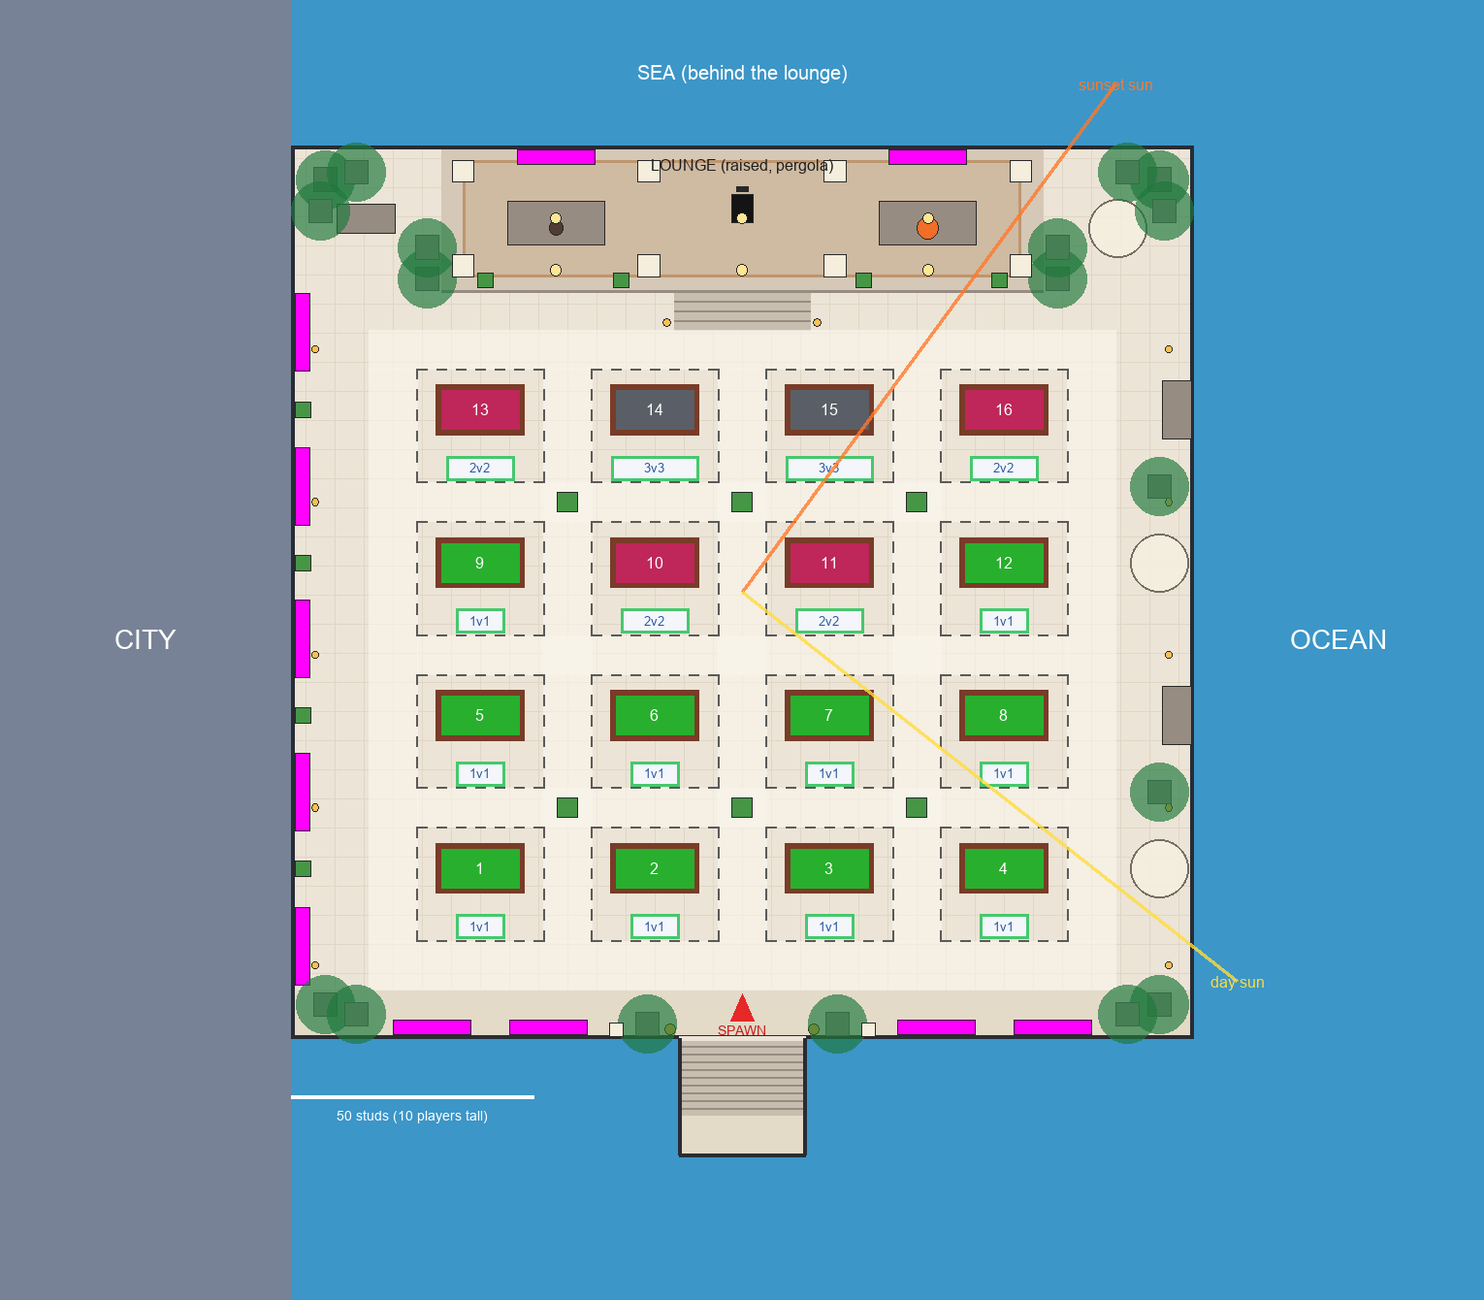
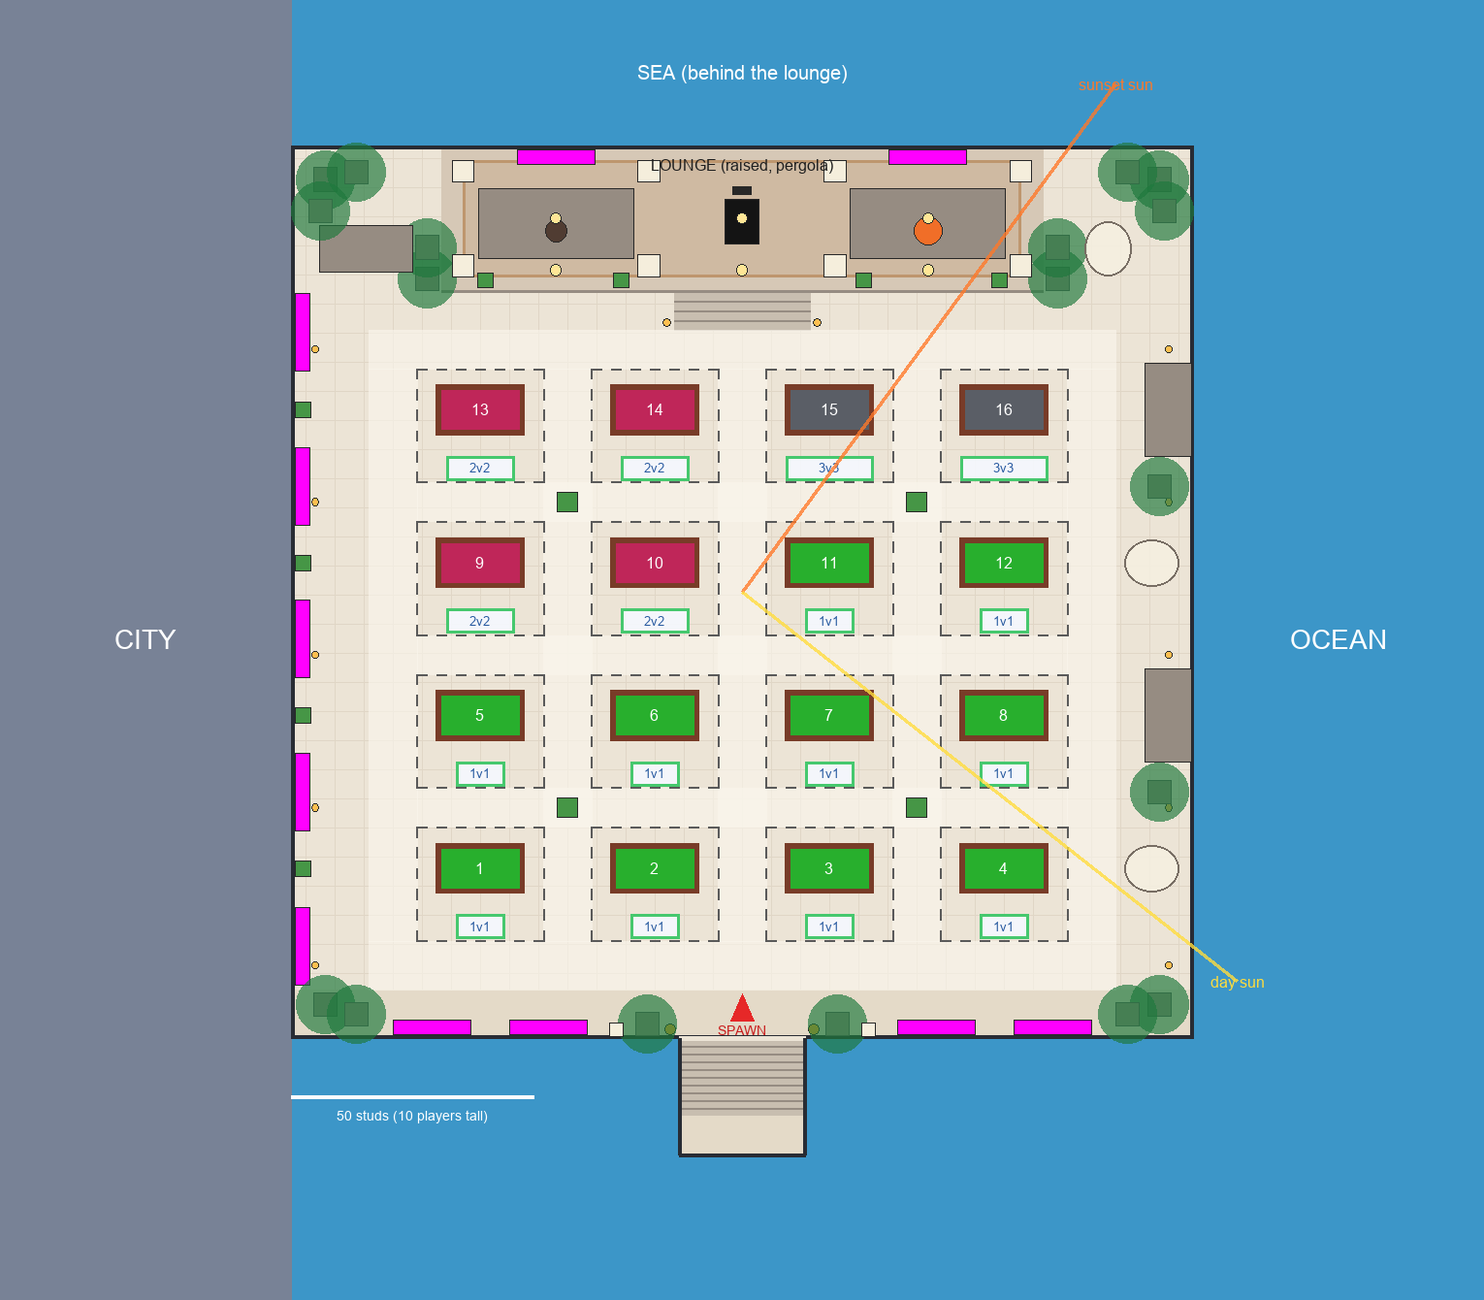
Checkpoint B changes: seating sized for a Roblox character, a clear centre aisle, tables grouped by mode
From the designer at Checkpoint B:
- The seating is placed at 1.6x for a Roblox character: the sofas, the umbrella
  sets and their loungers, the piano and bench and the coffee table. The fire
  pit is at 1.3x, so it still fits inside its U. The gray-box collision scales
  with each prop. An umbrella set's solid footprint is its loungers and pole,
  since the canopy is overhead. The two back-corner sets moved clear of the
  corner palms.
- The lounger's sit spot moved back against its backrest; the model is unchanged.
- The centre aisle from the spawn to the lounge is clear (two planters removed).
- The four 2v2 tables are together in the back-left corner and the two 3v3 in
  the back-right; the third row's right two are 1v1. There are still ten 1v1.

Placed in Studio: 91 props, 60,959 triangles, 171 MeshParts, 32 seats. Play:
every queue pad and seating area has a path from the spawn, 7 of 7 edge pushes
pass, and a character sits on every seat type facing the right way. No
re-import: placements, Config and the seat data only.

diff --git a/assets/map/map_layout.py b/assets/map/map_layout.py
@@ -42,12 +42,13 @@ GAME = {
 
 # Every table plays one mode (team size a side) and wears that mode's regular-lobby look
 # (wood frames; designer, 2026-09-26). Rows front to back, columns city to ocean: the 1v1
-# tables at the front, the 3v3 pair at the back centre, as on the baseplate.
+# tables at the front, the four 2v2 together in the back city corner (2 x 2), the 3v3 pair in
+# the back ocean corner (designer, Checkpoint B).
 MODES = [
     [1, 1, 1, 1],
     [1, 1, 1, 1],
-    [1, 2, 2, 1],
-    [2, 3, 3, 2],
+    [2, 2, 1, 1],
+    [2, 2, 3, 3],
 ]
 LOOK_BY_MODE = {1: 'Green', 2: 'RedWood', 3: 'CharcoalWood'}
 
@@ -102,6 +103,11 @@ P = {
     'globe_scale': 1.5,  # the GlobeLight template (globe 1.5, cord to 3.75 over its centre) scaled so
     'globe_hang': 5.6,  # ...its centre hangs this far under the fascia's underside
     'crossing_planter_scale': 1.3,  # the aisle-crossing fern planters, chunkier as in the art (Stage 3 critic 2)
+    # What a player sits on is sized for a Roblox character, not a real person: the sofas, the
+    # umbrella sets' loungers, the piano and its bench and the coffee table, all scaled up
+    # (designer, Checkpoint B). The fire pit less, so it still fits inside its U.
+    'seating_scale': 1.6,
+    'fire_pit_scale': 1.3,
     'mat_size': (16.0, 0.2, 6.0),  # the entrance mat (the SpawnLocation), between the tall lanterns
 }
 
@@ -123,6 +129,10 @@ PROP_SIZE = {
     'planter_bed': (16.0, 3.0, 6.5),  # a long trough of ferns along a parapet: 3.2 high, ferns above
     'table_glow': (26.0, 18.0, 0.02),  # the table (18.24 x 10.24) and a soft warm pool about 3.5 round it
 }
+
+# Where a prop's solid part is smaller than its size: an umbrella set's canopy is overhead, so
+# only its loungers and pole block walking (width, depth at scale 1, round the prop's centre).
+SOLID_SIZE = {'umbrella_set': (6.0, 7.0)}
 
 # Things that block walking (their footprint is solid). Glow planes and lights do not.
 SOLID = {'fern_planter', 'palm_planter', 'planter_bed', 'lantern', 'lantern_tall', 'umbrella_set', 'side_couch',
@@ -282,6 +292,12 @@ def build():
         item.update(extra)
         props.append(item)
 
+    def sized(kind, k):
+        """A kind's footprint (width, depth, height) at scale k."""
+        return tuple(v * k for v in PROP_SIZE[kind])
+
+    S = P['seating_scale']
+
     def column(x, z, y, height, size, part_of):
         props.append({'kind': 'column', 'X': round(x, 4), 'Y': y, 'Z': round(z, 4), 'yaw': 0.0,
                       'size': [size, height, size], 'part_of': part_of})
@@ -290,11 +306,12 @@ def build():
     for t in tables:
         prop('table_glow', t['X'], t['Z'], t['yaw'], 0.01)
 
-    # Fern planters at the aisle crossings, as in the top-down art: all three between rows 1
-    # and 2 and between rows 3 and 4, none between rows 2 and 3.
+    # Fern planters at the aisle crossings, as in the top-down art: the side aisles' crossings
+    # between rows 1 and 2 and between rows 3 and 4. None between rows 2 and 3, and none in the
+    # centre aisle, the clear walk from the spawn to the lounge (designer, Checkpoint B).
     for k, (x, z) in enumerate(crossings):
-        row, _ = divmod(k, 3)
-        if row != 1:
+        row, col = divmod(k, 3)
+        if row != 1 and col != 1:
             prop('fern_planter', x, z, scale=P['crossing_planter_scale'])
 
     # Side zones: a regular rhythm along each railing. Big items line up with the table rows,
@@ -324,9 +341,10 @@ def build():
     for k, z in enumerate(row_z):
         if k in (0, 2):
             # Loungers face the sea (the set's front, +Z, turned to +X).
-            prop('umbrella_set', rail_x - PROP_SIZE['umbrella_set'][0] / 2 - 1.0, z, 90.0)
+            # The loungers' feet 3 in from the railing; the canopy overhangs the walkway.
+            prop('umbrella_set', rail_x - SOLID_SIZE['umbrella_set'][1] * S / 2 - 3.0, z, 90.0, scale=S)
         else:
-            prop('side_couch', rail_x - PROP_SIZE['side_couch'][1] / 2 - 0.4, z, -90.0)
+            prop('side_couch', rail_x - sized('side_couch', S)[1] / 2 - 0.4, z, -90.0, scale=S)
     inset = P['palm_inset']
     for (a, b), height in zip(((row_z[0], row_z[1]), (row_z[2], row_z[3])), (26.0, 22.0)):
         prop('palm_planter', rail_x - inset, (a + b) / 2, -90.0, height=height)
@@ -357,18 +375,18 @@ def build():
     # line the platform edge; palms at the pergola's ends.
     y = platform_y
     pz0, pz1 = zones['pergola'][1], zones['pergola'][3]
-    piano_d = PROP_SIZE['piano'][1]
-    bench_d = PROP_SIZE['piano_bench'][1]
+    piano_d = sized('piano', S)[1]
+    bench_d = sized('piano_bench', S)[1]
     bench_z = pz0 + P['pergola_column'] + 1.0 + bench_d / 2
-    piano_z = bench_z + bench_d / 2 + 0.6 + piano_d / 2
-    prop('piano_bench', 0.0, bench_z, 0.0, y)
-    prop('piano', 0.0, piano_z, 180.0, y)  # the keyboard (the prop's +Z side) faces the bench
+    piano_z = bench_z + bench_d / 2 + 0.6 * S + piano_d / 2
+    prop('piano_bench', 0.0, bench_z, 0.0, y, scale=S)
+    prop('piano', 0.0, piano_z, 180.0, y, scale=S)  # the keyboard (the prop's +Z side) faces the bench
     group_z = (pz0 + pz1) / 2 + 1.0
     bay_w = 2 * P['pergola_half_width'] / P['pergola_bays']
-    prop('lounge_couch', -bay_w, group_z, 0.0, y)  # in the bays either side of the piano's
-    prop('coffee_table', -bay_w, group_z + 1.0, 0.0, y)
-    prop('lounge_couch', bay_w, group_z, 0.0, y)
-    prop('fire_pit', bay_w, group_z + 1.0, 0.0, y)
+    prop('lounge_couch', -bay_w, group_z, 0.0, y, scale=S)  # in the bays either side of the piano's
+    prop('coffee_table', -bay_w, group_z + 1.0 * S, 0.0, y, scale=S)
+    prop('lounge_couch', bay_w, group_z, 0.0, y, scale=S)
+    prop('fire_pit', bay_w, group_z + 1.0 * S, 0.0, y, scale=P['fire_pit_scale'])
     for side in (-1, 1):
         # A fern trough on the back railing behind each U couch: the lounge-back art's planted
         # edge behind the sofa (Stage 3 critic 2).
@@ -385,8 +403,9 @@ def build():
     # the top-down art, with palms in the far corners.
     corner_x = (lw + rail_x) / 2
     corner_z = (back_edge + lounge_front) / 2
-    prop('side_couch', -corner_x, corner_z - 4.0, 0.0)
-    prop('umbrella_set', corner_x, corner_z - 2.0, 180.0)
+    # In front of the corner palms, clear of them and of the pergola-end palms.
+    prop('side_couch', -corner_x, corner_z + 2.3, 0.0, scale=S)
+    prop('umbrella_set', corner_x - 2.0, corner_z + 2.25, 180.0, scale=S)
     for side in (-1, 1):
         # Three palms in each back corner at three heights.
         prop('palm_planter', side * (rail_x - inset), back_edge + inset, height=32.0)
@@ -458,6 +477,9 @@ def cameras(spawn, zones):
 
 def footprint(p):
     w, _, d = p['size']
+    if p['kind'] in SOLID_SIZE:
+        k = p.get('scale', 1.0)
+        w, d = (v * k for v in SOLID_SIZE[p['kind']])
     yaw = math.radians(p['yaw'])
     c, s = abs(math.cos(yaw)), abs(math.sin(yaw))
     hx = (w * c + d * s) / 2

diff --git a/assets/map/gen_graybox.py b/assets/map/gen_graybox.py
@@ -377,20 +377,22 @@ def building(g, rng, folder, x, z, w, d_, dist, behind):
 def prop(g, p, i):
     kind = p['kind']
     L = (p['X'], p['Y'], p['Z'], p['yaw'])
-    w, h, d = p['size']
+    # A scaled prop (map_layout: the seating, the crossing planters) is its template's parts,
+    # every size and offset times k; w, h, d are the template's own.
+    k = p.get('scale', 1.0)
+    w, h, d = (v / k for v in p['size'])
     F = 'Props'
     name = '%s_%02d' % (kind, i)
 
     def part(size, pos, colour, **kw):
         kw.setdefault('role', 'collide' if kw.get('collide') else 'visual')
-        g.part(F, name, size, pos, colour, local=L, **kw)
+        g.part(F, name, tuple(v * k for v in size), tuple(v * k for v in pos), colour, local=L, **kw)
 
     if kind == 'table_glow':
         part((w, 0.05, d), (0, 0.03, 0), C['glow'], material='Neon', transparency=0.88)
     elif kind == 'fern_planter':
-        k = p.get('scale', 1.0)
-        part((w, 3.0 * k, d), (0, 1.5 * k, 0), C['stone'], collide=True)
-        part((4.4 * k, 4.4 * k, 4.4 * k), (0, 5.0 * k, 0), C['leaf'], shape='Ball')
+        part((w, 3.0, d), (0, 1.5, 0), C['stone'], collide=True)
+        part((4.4, 4.4, 4.4), (0, 5.0, 0), C['leaf'], shape='Ball')
     elif kind == 'palm_planter':
         part((w, 3.2, d), (0, 1.6, 0), C['stone'], collide=True)
         part((1.1, h - 7, 1.1), (0, 3.2 + (h - 7) / 2, 0), C['trunk'])

diff --git a/assets/map/props/lights.py b/assets/map/props/lights.py
@@ -449,7 +449,9 @@ def build_umbrella_set():
     _umbrella_frame(m, R)
     for lx in (-LOUNGER_X, LOUNGER_X):
         _lounger(m, lx)
-    seats = [(-LOUNGER_X, 1.0, 1.0, 0.0), (LOUNGER_X, 1.0, 1.0, 0.0)]
+    # Against the backrest's foot (its hinge at z -0.8), between the armrests: the sit pose is
+    # upright, so a spot further forward left a gap behind the player (Checkpoint B).
+    seats = [(-LOUNGER_X, 1.0, -0.35, 0.0), (LOUNGER_X, 1.0, -0.35, 0.0)]
     return {'Opaque': m, 'seats': seats, 'lights': []}
 
 

diff --git a/assets/map/Spec.md b/assets/map/Spec.md
@@ -17,14 +17,17 @@ Change those scripts, never the numbers here by hand, then update this file.
   an invisible wall.
 - **Table looks follow the table's mode**, with wood frames (the regular lobby): green 1v1,
   raspberry 2v2 (`RedWood`), charcoal 3v3 (`CharcoalWood`). This replaces the brief's "all
-  green". Ten 1v1 tables sit at the front, four 2v2 and two 3v3 toward the back, as on the
-  baseplate.
+  green". Ten 1v1 tables sit at the front. The four 2v2 stand together (2 x 2) in the back
+  city corner and the two 3v3 in the back ocean corner (designer, Checkpoint B).
 - **Queue pads sit in front of each table:** centred on the long side that faces the
   entrance. They are rectangles (the other session's change, 8f66025), sized by mode. The
   grid is computed from the pad size in Config, so it re-spaces itself if that changes.
 - **Prop scale is split.**
   - Spacing and zones follow the table's scale (the art's layout).
-  - Anything a player sits on, climbs or leans on is at player scale.
+  - What a player sits on is sized for a Roblox character, not a real person (designer,
+    Checkpoint B). The sofas, the umbrella sets with their loungers, the piano and bench and
+    the coffee table are built at player scale and placed at 1.6x; the fire pit at 1.3x.
+  - Anything a player climbs or leans on (steps, railing) is at player scale.
   - Big decor (planters, palms, umbrellas, the pergola) is about 1.4x player scale, so it
     holds its own beside the 18-stud tables.
 - **No snack counter for now** (designer, Checkpoint A): the **grand piano** is the
@@ -209,7 +212,7 @@ top-down, and one big item per table row along each railing.
 
 | Prop | Count | Where |
 |---|---:|---|
-| Fern planter | 14 | 6 at the aisle crossings (none in the middle row gap), scaled 1.3 to the art's chunkier boxes; 4 on the city railing, one per row; 4 on the lounge edge, between the pergola's front columns |
+| Fern planter | 12 | 4 at the side aisles' crossings (none in the middle row gap, and the centre aisle from the spawn to the lounge is clear; designer, Checkpoint B), scaled 1.3 to the art's chunkier boxes; 4 on the city railing, one per row; 4 on the lounge edge, between the pergola's front columns |
 | Fern trough (a long low planter) | 11 | 5 along the city railing between the big planters, so the edge reads as one green line (the top-down art); 4 along the front parapet; 2 on the back railing behind the U sectionals (the lounge-back art) |
 | Palm planter | 18 | in clusters, not an even ring, at mixed heights (20 to 32): a pair beside the stair; a pair in each front corner; three in each back corner; a pair at each end of the pergola, just off the platform; 2 on the ocean railing. Each stands 7 in from the railing so its crown stays over the roof |
 | Lantern | 12 | 5 per side at the row gaps and the front and back walkways, standing just in front of the planted edge (5 in from the railing); 2 flanking the lounge flight |
@@ -227,6 +230,8 @@ top-down, and one big item per table row along each railing.
 ## 4. Prop sizes
 
 Width x depth x height in studs. "P" is player scale (1 m = 2.86 studs); decor is about 1.4 x P.
+The seating is built to these sizes and placed at 1.6x (the fire pit 1.3x) for a Roblox
+character (Checkpoint B); the placed size is given after the arrow.
 
 | Prop | Size | Detail |
 |---|---|---|
@@ -234,12 +239,12 @@ Width x depth x height in studs. "P" is player scale (1 m = 2.86 studs); decor i
 | Palm planter | 4.8 x 4.8 box, 3.2 high | palm 20 to 32 tall (per palm, so clusters step), trunk 1.7 thick at the foot, 22 fronds, crown about 18 across |
 | Lantern | 1.5 x 1.5 x 4.0 | P 1.0 m lantern x 1.4 |
 | Tall lantern | 2.2 x 2.2 x 6.5 | |
-| Umbrella set | 12 canopy, rim at 9, top at 12 | two loungers 5.6 x 2.0, seat 1.0, back to 2.6 (P) |
-| Sofa group | 12 x 6 footprint | sofa 11 x 3, seat 1.3, back 2.6 (P); ottoman 2.9 square, 1.1 high |
-| U sectional | 20 x 9 x 2.6 | seat 1.3, back 2.3 to 2.6 (P); cushions on the back |
-| Coffee table | 2.8 round x 1.3 | P |
-| Fire pit | 4.5 round x 1.4 | flame about 1.4 above the rim |
-| Grand piano | 4.4 x 5.8 x 3.0 | P (2.0 x 1.5 m, 1.0 m tall); bench 2.4 x 1.0 x 1.4 |
+| Umbrella set | 12 canopy, rim at 9, top at 12 -> 19.2 canopy, top at 19.2 | two loungers 5.6 x 2.0, seat 1.0, back to 2.6 (P) -> 9.0 x 3.2, seat 1.6 |
+| Sofa group | 12 x 6 footprint -> 19.2 x 9.6 | sofa 11 x 3, seat 1.3, back 2.6 (P) -> seat 2.1, back 4.2; ottoman 2.9 square, 1.1 high |
+| U sectional | 20 x 9 x 2.6 -> 32 x 14.4 x 4.2 | seat 1.3, back 2.3 to 2.6 (P) -> seat 2.1; cushions on the back |
+| Coffee table | 2.8 round x 1.3 -> 4.5 round x 2.1 | P |
+| Fire pit | 4.5 round x 1.4 -> 5.9 round x 1.8 (1.3x) | flame about 1.4 above the rim |
+| Grand piano | 4.4 x 5.8 x 3.0 -> 7.0 x 9.3 x 4.8 | P (2.0 x 1.5 m, 1.0 m tall); bench 2.4 x 1.0 x 1.4 -> 3.8 x 1.6 x 2.2 |
 | Globe light | 2.25 round (the template scaled 1.5) | its centre 5.6 under the fascia's underside |
 | Pergola | 115 x 24, 22 clear | 4.5-square plain cream columns, 4 per row; a 6.5-deep fascia with a shaded underside; wood slats every 2; vine clumps at the column heads; bougainvillea on the right end column |
 | Fern trough | 16 x 3, 3.2 high (as tall as the other planters) | ferns above to about 6.5 |
@@ -399,8 +404,8 @@ stages that build the real thing:
     each leaf and palm stop 18 degrees of hue toward green and scale its brightness by 0.88.
     Its upload (rbxassetid://130898709634640) never loaded in Studio (still processing or
     held by moderation), so the old atlas stays. Retry at Stage 4.
-  - **Sofas.** Round 3 wanted taller backs and a walnut plinth. The backs are at player scale
-    (2.3 to 2.6); the designer decides.
+  - **Sofas.** Round 3 wanted taller backs and a walnut plinth. The designer had all the
+    seating scaled up 1.6x instead (Checkpoint B).
   - **Thinning** is the designer's call at Checkpoint B:
     - fewer back-corner palms;
     - ferns instead of palms beside the stair;

diff --git a/assets/map/Budget.md b/assets/map/Budget.md
@@ -12,7 +12,7 @@ caps are the brief's (`docs/prompts/ROOFTOP_MAP_PROMPT.md` section 6). The whole
 | 16 tables (existing, 8,134 each) | 130,000 | 130,144 | 130,144 | existing |
 | Balls, cues, effects (existing) | 20,000 | | | existing |
 | Rooftop architecture: floor, parapet, railing, steps, pergola, tower top | 60,000 | 3,754 | 3,754 | 2 |
-| Props | 140,000 | 62,739 | 62,739 | 3 |
+| Props | 140,000 | 60,959 | 60,959 | 3 |
 | Near surroundings: tower walls, neighbour roofs, streets, promenade, beach, boats | 50,000 | | | 4 |
 | Mid backdrop: skyline and islands | 110,000 | | | 5 |
 | Far cards | 2,000 | | | 6 |
@@ -24,7 +24,7 @@ caps are the brief's (`docs/prompts/ROOFTOP_MAP_PROMPT.md` section 6). The whole
 | Prop | Cap | Count in plan | Built | Total |
 |---|---:|---:|---:|---:|
 | Palm (trunk 600 or less, fronds as alpha cards) | 2,500 | 18 | 1,092 (trunk 236) | 19,656 |
-| Fern planter | 1,200 | 14 (the 6 at the crossings scaled 1.3) | 890 | 12,460 |
+| Fern planter | 1,200 | 12 (the 4 at the crossings scaled 1.3) | 890 | 10,680 |
 | Square planter box | 300 | 18 palm boxes (the fern and trough boxes are in their kinds) | 258 | 4,644 |
 | Sectional couch | 3,000 | 2 U sectionals, 3 sofa groups | 1,480 / 794 | 5,342 |
 | Coffee table | 500 | 1 | 278 | 278 |
@@ -37,7 +37,7 @@ caps are the brief's (`docs/prompts/ROOFTOP_MAP_PROMPT.md` section 6). The whole
 | Globe light | 150 | 6 | 144 | 864 |
 | Pergola | 8,000 | 1 (counted in architecture) | about 460 with its slats (plain columns) | 460 |
 
-Built (Stage 3), the props come to 62,739 triangles over every placement, inside the props
+Built (Stage 3), the props come to 60,959 triangles over every placement, inside the props
 group's 140,000. Studio's EditableMesh count matches Blender's.
 
 ## Other limits
@@ -47,7 +47,7 @@ group's 140,000. Studio's EditableMesh count matches Blender's.
 | Unique map textures (1024 exports) | 20 | 7 (arch, floor colour, floor normal, foliage, overlays, props, plants) |
 | Skyboxes | 2 (six faces each) | 0 |
 | Far-card images | 4 | 0 |
-| MeshParts, rooftop and props | 400 | 175 (architecture 10, props 165) |
+| MeshParts, rooftop and props | 400 | 171 (architecture 10, props 161) |
 | MeshParts, backdrop | about 30 | 0 |
 | PointLights, SpotLights, SurfaceLights (Shadows off) | 20 | 3 (the tall lanterns, the fire pit) |
 

diff --git a/docs/prompts/ROOFTOP_MAP_PROMPT.md b/docs/prompts/ROOFTOP_MAP_PROMPT.md
@@ -408,6 +408,17 @@ One line per stage: date, stage, result, commit.
     right way.
   - Critic: layout 5, 6, 6; palette 4, 4, 5; calm 6 each round. Lighting and backdrop wait
     for Stages 4 to 7. The notes carried forward are in Spec section 9.
-  - Commits 0425b88, 816f52d, 073496f, 9930514, and round three's.
+  - Commits 0425b88, 816f52d, 073496f, 9930514, 0596fde.
   - Waiting at CHECKPOINT B.
+- 2026-09-26: CHECKPOINT B approved by the designer with changes.
+  - The seating is sized for a Roblox character: the sofas, umbrella sets and loungers, the
+    piano and bench and the coffee table are placed at 1.6x, the fire pit at 1.3x. The
+    lounger's sit spot moved back against its backrest.
+  - The centre aisle from the spawn to the lounge is clear (its two planters are gone).
+  - The four 2v2 tables stand together in the back-left corner and the two 3v3 in the
+    back-right; the third row's right two are 1v1.
+  - In Studio: 91 props, 60,959 triangles, 171 MeshParts, 32 seats. Play: every pad and
+    seating area has a path from the spawn, 7 of 7 edge pushes pass, and every seat type
+    sits and stands facing the right way.
+  - Next: Stage 4 (the near surroundings, the ocean and the day sky).
 

diff --git a/docs/DECISIONS.md b/docs/DECISIONS.md
@@ -1171,3 +1171,12 @@ caps switch), leaving the plain tiled cloth; no new images needed.
   ball, the tier's own plates, feathers, shards, fins, laurel or wings) instead of one more
   feather per tier. Kept from the first round: stars and gems for divisions, growing crowns
   from Expert, no banner, Reyes without a signature, the ball in the same place on every badge.
+- 2026-09-26: Checkpoint B (the rooftop's props) approved with changes by the designer.
+  - Seating is sized for a Roblox character, not a real person. The sofas, the umbrella sets
+    with their loungers, the piano and its bench and the coffee table are placed at 1.6x;
+    the fire pit at 1.3x, so it still fits inside its U.
+  - The centre aisle from the spawn to the lounge is clear: its two crossing planters are
+    gone.
+  - The four 2v2 tables stand together (2 x 2) in the back-left corner and the two 3v3 in
+    the back-right corner, seen from the spawn. The third row's right two tables are now
+    1v1, so there are still ten 1v1.

diff --git a/docs/GDD.md b/docs/GDD.md
@@ -159,7 +159,8 @@ Every feature is checked against these. If it serves none, it waits.
 - Players spawn in the hub and walk to any free table. There are no menus to find a game.
 - **Every table plays one mode** (changed 2026-09-26; for a day any table played any mode from
   one long queue box). Of sixteen tables, **ten are 1v1, four 2v2 and two 3v3**, the 1v1
-  tables nearest the spawn and the 3v3 at the back.
+  tables nearest the spawn. The four 2v2 stand together (2 x 2) in the back-left corner and
+  the two 3v3 in the back-right corner, seen from the spawn (changed 2026-09-26).
 - **Joining: step onto the table's queue pad.** Each table has one glowing rectangular pad in
   front of it, lying along the long side that faces the entrance (changed 2026-09-26 for the
   rooftop map; a round pad was tried the same day and dropped), longer for bigger modes,

diff --git a/docs/STATUS.md b/docs/STATUS.md
@@ -41,7 +41,8 @@ instead of sinking into the floor.**
 and each mode has its own look.**
 
 - **Tables:**
-  - Ten 1v1, four 2v2 and two 3v3; the 1v1 tables at the front, the 3v3 at the back.
+  - Ten 1v1, four 2v2 and two 3v3; the 1v1 tables at the front, the 2v2 together in the
+    back-left corner and the 3v3 in the back-right corner.
   - The left two columns have wood frames (the regular lobby's looks: green 1v1, raspberry
     red 2v2, slate charcoal 3v3); the right two have black frames (the pro lobby's: blue 1v1,
     the same red and charcoal). Every combination is on the baseplate for testing.
